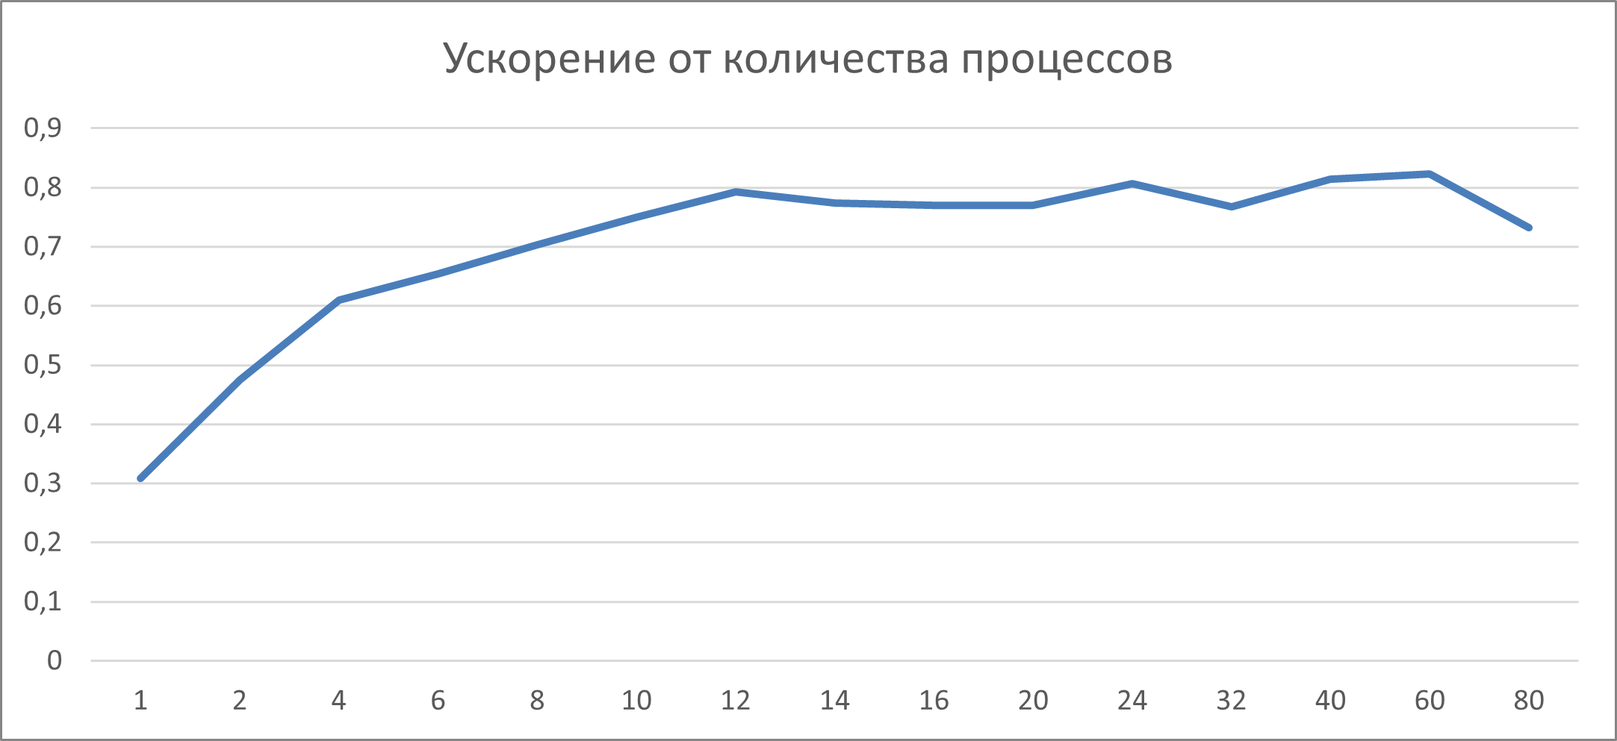
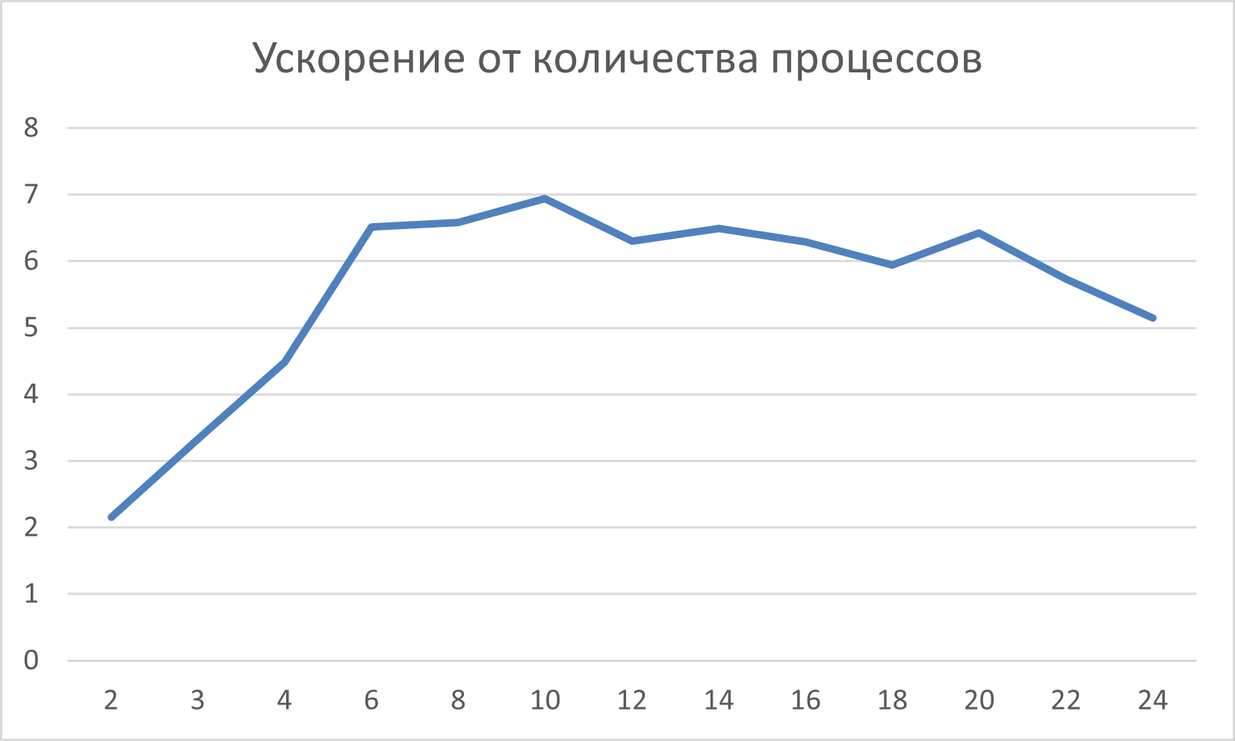
report

diff --git a/tasks/gutyansky_a_matrix_band_multiplication/report.md b/tasks/gutyansky_a_matrix_band_multiplication/report.md
@@ -1,126 +1,160 @@
-# Сумма значений по столбцам матрицы
+# Ленточная горизонтальная схема А, вертикальное В - умножение матрицы на матрицу
 
 - Студент: Гутянский Алексей Сергеевич, группа 3823Б1ФИ3
 - Технология: SEQ | MPI
-- Вариант: 12
+- Вариант: 14
 
 ## 1. Введение
 
-Суммирование элементов матрицы по столбцам относится к числу базовых операций, которые часто становятся частью более сложных вычислительных цепочек: статистической обработки данных, численных методов, разложения больших наборов измерений. Несмотря на простоту формулировки, практическая реализация такой операции для крупных матриц требует продуманной организации данных и эффективного распределения нагрузки между вычислительными узлами.
+Умножение матриц является одной из базовых операций линейной алгебры и широко используется в задачах численного моделирования, машинного обучения, компьютерной графики и обработки сигналов. При увеличении размеров матриц вычислительная сложность операции растёт кубически, что делает последовательную реализацию неэффективной для крупных входных данных.
 
-Работа посвящена разработке решения для суммирования матрицы по столбцам, а также анализу возможностей его параллельного исполнения. Рассматриваются ключевые аспекты реализации, потенциальные источники узких мест и факторы, влияющие на производительность при различных способах разбиения данных.
+В работе рассматривается реализация алгоритма умножения матриц с использованием ленточной схемы распределения данных и анализ возможностей его параллельного исполнения с применением технологии MPI.
 
 ## 2. Постановка задачи
 
-Дана прямоугольная матрица \(A\) размера \(n \times m\), содержащая целые числа. Для каждого столбца требуется вычислить сумму элементов в нём.
+Даны две матрицы:
+- матрица \(A\) размера \(n \times k\),
+- матрица \(B\) размера \(k \times m\),
+содержащие целые числа.
 
-**Входные данные:** два целых числа \(n\) и \(m\), задающих соответственно кол-во строк и столбцов матрицы, \(n \times m\) чисел задающих элементы матрицы. Гарантируется, что элементы матрицы и ответ помещаются в 32-битный знаковый тип.
+Требуется вычислить матрицу \(С = A \times B\) размера \(n \times m\).
 
-**Выходные данные:** \(m\) целых чисел - сумм по каждому из столбцов матрицы.
+**Входные данные:** размеры матриц \(n\), \(k\), \(m\), а также элементы матриц \(A\) и \(B\). Гарантируется, что элементы входных матриц и результирующей матрицы помещаются в 32-битный знаковый целочисленный тип.
+
+**Выходные данные:** Матрица \(С = A \times B\) размера \(n \times m\).
 
 ## 3. Базовый алгоритм (Последовательный)
 
-Будем рассматривать решение как массив длины \(m\). Изначально все его элементы инициализированы нулями.
+Последовательный алгоритм перемножения матриц реализован с использованием 3 вложенных друг в друга циклов:
 
 ```cpp
-std::fill(GetOutput().begin(), GetOutput().end(), 0);
 
-for (size_t i = 0; i < GetInput().rows; i++) {
-    for (size_t j = 0; j < GetInput().cols; j++) {
-        GetOutput()[j] += GetInput().data[(i * GetInput().cols) + j];
+for (size_t i = 0; i < C_rows; i++) {
+    for (size_t j = 0; j < C_cols; j++) {
+        for (size_t k = 0; k < A_cols; k++) {
+            C[(i * C_cols) + j] += A[(i * A_cols) + k] * B[(k * B_cols) + j];
+        }
     }
 }
 ```
 
-Для каждой строки матрицы от \(1\) до \(n\) столбцы обходятся в порядке от \(1\) до \(m\). Ответ накапливается в соответствующих ячейках массива.
-
-При описанной схеме обхода достигается почти последовательный доступ к памяти. При этом внутренний цикл по \(j\) может быть легко векторизован.
+Для каждой строки матрицы \(A\) и каждого столбца матрицы \(B\) вычисляется скалярное произведение. Реализация имеет последовательный доступ к памяти по строкам матрицы \(A\), однако доступ к элементам матрицы \(B\) происходит с константным шагом, что не очень хорошо с точки зрения кэширования.
 
 ## 4. Параллелизация
 
-Отдадим каждому процессу на обработку одну или более последовательных строк матрицы. Количество строк вычисляется по формуле:
+### 4.1. Схема разбиения данных
 
-```cpp
-size_t chunk_size = row_count / static_cast<size_t>(p_count);
-size_t remainder_size = row_count % static_cast<size_t>(p_count);
+В параллельной версии используется ленточная схема:
 
-size_t rows_count = chunk_size + (std::cmp_less(rank, remainder_size) ? 1 : 0);
-size_t elements_count = col_count * rows_count;
-```
+- матрица \(A\) разделяется по строкам между процессами;
+- матрица \(B\) разделяется между процессами по столбцам.
 
-В формуле _p_count_ обозначает число запущенных процессов, а _rank_ - ранг процесса.
+Каждому процессу в соответствии с его рангом передается непрерывный блок столбцов первой матрицы и непрерывный блок столбцов второй матрицы. Размеры блоков вычисляются так, чтобы разница в количестве строк (столбцов) между двумя процессами не превышала 1. Таким образом, нагрузка между процессами распределяется равномерно.
 
-Если \(n\) не делится на _proc_count_ нацело, то остаток распределяется между процессами. Разница в количестве обрабатываемых элементов не превышает количество столбцов матрицы.
+### 4.2. Обмен данными
 
-Полную копию данных имеет только процесс с нулевым рангом. Из него в другие процессы через _MPI_Bcast_ рассылаются сначала размеры матрицы, а потом через _MPI_Scatterv_ блоки для обработки.
+Входные данные полностью загружаются процессом, имеющим нулевой ранг, затем рассылаются в соответствии со схемой, описанной выше.
 
-Для вычисления частичного ответа используется код аналогичный последовательной версии за тем исключением, что суммирование выполняется не по всей матрице, а по ее части.
+Каждый процесс получает:
 
-Полное решение задачи вычисляется с использованием функции _MPI_Reduce_. Ответ становится доступен в памяти процесса с нулевым рангом.
+- размеры входных матриц;
+- блок строк матрицы \(A\);
+- блок столбцов матрицы \(B\).
+
+Для рассылки размеров используется _MPI_Bcast_. Для рассылки элементов матриц используется _MPI_Scatterv_.
+
+Перед рассылкой матрица \(B\) перепаковывается таким образом, чтобы блоки столбцов представляли собой непрерывные участки памяти.
+
+### 4.3. Вычисление и ротация блоков
+
+Результатом работы каждого процесса должен стать соответсвующий ему непрерывный блок строк матрицы \(C\). Имея блок строк матрицы \(A\) и блок столбцов матрицы \(B\) процесс не может вычислить результат целиком.
+
+Вычисление результата происходит поэтано. На каждом этапе:
+
+- Процесс использует свой блок столбцов матрицы \(B\) для вычисления части результата.
+- Процесс передает блок столбцов матрицы \(B\) следующему процессу (в порядке ранга).
+- Процесс принимает блок столбцов матрицы \(B\) от предыдущего процесс (также в порядке ранга).
+
+Блоки столбцов передаются циклически - процесс с рангом 0 получает данные от процесса с рангом \(world\_size - 1\).
+
+Ротация столбцов выполняется с использованием функции _MPI_Sendrecv_.
+
+### 4.4. Сбор данных
+
+Так как каждый процесс вычисляет непрерывный блок строк матрицы \(C\), полная матрица без применения дополнительных преобразований собирается на нулевом процессе с использованием функции _MPI_Gatherv_.
 
 ## 5. Детали реализации
 
-Для функциональных тестов реализована загрузка из файлов, хранящихся в директории data/. Матрица большого размера, сохраненная в текстовом файле, может занимать большой объем места на диске, но для функциональных тестов возможность использования больших матриц является избыточной.
+Для функциональных тестов используется загрузка входных данных из текстовых файлов, расположенных в директории data/. Для тестирования корректности применяются матрицы малого размера с различными значениями элементов.
 
-Для теста производительности используется квадратная матрица размера 16000 на 16000 элементов. Матрица состоит из единиц, что никак не влияет на скорость исполнения, но упрощает генерацию теста.
+Для измерения производительности используются две квадратные матрицы размера \(1000 \times 1000\). Матрицы сгенерированы следующим образом:
+\(a_{ij} = i\), \(b_{ij} = j\).
+Такое заполнение матриц позволяет проверять корректность вычисления без использования алгоритма перемножения матриц.
 
-Как уже отмечалось ранее, для параллельной версии загрузка тестовых данных и проверка ответа происходит только на процессе с нулевым рангом.
+Загрузка входных данных и проверка результата выполняются только процессом с нулевым рангом.
 
 ## 6. Тестовое окружение
 
 - Аппаратное обеспечение/Операционная система: Intel Core i5 14600KF, 6P+8E ядер, 64Gb Ddr5 5600Mhz, Windows 10, MS-MPI.
 - Инструменты сборки: Cmake 4.2.0-rc4, Visual Studio 2022, MSVC, x64 Release.
-- Переменные окружения: PPC_NUM_THREADS=PPC_NUM_PROC=1/2/4/6/8/10/12/14/16/20/24/32/40/60/80, PPC_PERF_MAX_TIME=10000.
-- Данные: вручную созданные тесты небольшого размера, случайным образом сгенерированный тест 1000x1000 элементов, матрица из единиц размера 16000x16000.
+- Переменные окружения: PPC_NUM_THREADS=PPC_NUM_PROC=1/2/3/4/6/8/10/12/14/16/18/20/22/24, PPC_PERF_MAX_TIME=10000.
+- Данные: вручную созданные функциональные тесты небольшого размера, автоматически генерируемые матрицы \(1000 \times 1000\) для тестов производительности.
 - Дополнительно: в scripts/run_tests.py были отключены perf тесты для всех технологий, кроме seq и mpi.
 
 ## 7. Результаты
 
 ### 7.1 Корректность
 
-Решение, как в последовательной, так и в параллельной версии было протестировано на входных данных разного размера и содержания. В числе тестов: матрица с одним столбцом и одной строкой, матрица, состоящая из нулей, неквадратная матрица и другие.
+Последовательная и параллельная версии программы были протестированы в различных ситуациях:
 
-Скорость исполнения проверена на матрице из единиц размера 16000х16000 элементов. Время исполнения стабильно и равно 110мс.
+- матрицы размером \(1 \times 1\);
+- неквадратные матрицы;
+- матрицы с нулевыми элементами;
+- одна из матриц единичная;
+- случайно сгенерированные данные (имитация реальных данных).
+
+Во всех случаях результаты работы алгоритмов полностью совпадали с ожидаемыми.
 
 ### 7.2 Производительность
 
-Время, ускорение, эффективность:
+Поскольку последовательная и MPI-версии, хотя и имеют схожую концепцию, реализованы по-разному и по-разному оптимизируются компилятором, MPI версия при запуске на одном процессе работает быстрее. Поэтому для оценки ускорения и эффективности в качестве базового времени используется запуск MPI-версии на одном процессе.
 
 | Режим        | Кол-во процессов | Время, сек | Ускорение | Эффективность параллелизма |
 |-------------|-------|---------|---------|------------|
-| seq         | 1     | 0.106  | 1.00    | N/A        |
-| mpi         | 2     | 0.230  | 0.48   | 24.7%      |
-| mpi         | 4     | 0.175  | 0.61   | 15.2%      |
-| mpi         | 6     | 0.162  | 0.65   | 10.9%      |
-| mpi         | 8     | 0.154  | 0.70   | 8.7%       |
-| mpi         | 10    | 0.144  | 0.75    | 7.4%       |
-| mpi         | 12    | 0.139  | 0.79    | 6.6%       |
-| mpi         | 14    | 0.141  | 0.77    | 5.5%       |
-| mpi         | 16    | 0.142  | 0.77    | 4.8%       |
-| mpi         | 20    | 0.139  | 0.77    | 3.8%       |
-| mpi         | 24    | 0.138  | 0.81    | 3.3%       |
-| mpi         | 32    | 0.139  | 0.77    | 2.3%       |
-| mpi         | 40    | 0.135  | 0.81    | 2.0%       |
-| mpi         | 60    | 0.139  | 0.82    | 1.3%       |
-| mpi         | 80    | 0.147  | 0.73    | 0.9%       |
+| seq         | 1     | 1.240  | N/A    | N/A        |
+| mpi         | 1     | 0.511  | 1   | N/A      |
+| mpi         | 2     | 0.236  | 2.15   | 107.9%      |
+| mpi         | 3     | 0.153  | 3.32   | 110.9%      |
+| mpi         | 4     | 0.113  | 4.48   | 112.1%      |
+| mpi         | 6     | 0.078  | 6.51   | 108.6%      |
+| mpi         | 8     | 0.076  | 6.58   | 82.2%      |
+| mpi         | 10     | 0.073  | 6.94   | 69.4%      |
+| mpi         | 12     | 0.081  | 6.29   | 52.5%      |
+| mpi         | 14     | 0.078  | 6.48   | 46.3%       |
+| mpi         | 16    | 0.081  | 6.28    | 39.3%       |
+| mpi         | 18    | 0.085  | 5.94    | 33.0%       |
+| mpi         | 20    | 0.079  | 6.42    | 32.1%       |
+| mpi         | 22    | 0.089  | 5.72    | 26.0%       |
+| mpi         | 24    | 0.099  | 5.14    | 21.4%       |
 
 ![Ускорение от количества процессов](./report_assets/pic1.png)
 ![Эффективность параллелизма](./report_assets/pic2.png)
 
-Первое, что стоит отметить, это замедление MPI версии относительно последовательной. Данных для обработки много, в то время как операций над ними мало. Большая часть времени тратится на пересылку данных между процессами.
+До 6 процессов наблюдается сверхлинейное ускорение, что может быть связано с улучшением локальности доступа к памяти: уменьшаются размеры обрабатываемых блоков, снижая число кэш-промахов.
 
-При отсутствии рассылки входных данных удавалось достичь ускорения относительно последовательной версии в 5.2 раза, что не являлось пределом, так как то решение не было оптимизировано и хранило полную копию входных данных на каждом из процессов.
+При дальнейшем увеличении числа процессов эффективность параллелизма снижается, поскольку объём вычислений на процесс становится сопоставим или меньше накладных расходов на обмен данными.
 
-Видно, что производительность растет до достижения 12 процессов, что равно количеству производительных ядер процессора с учетом Hyper-Threading. Ускорение в максимуме достигло 2.54 раз относительно запуска с одним MPI процессом.
-
-Далее до 20 процессов наблюдается плато. После 20 процессов размер работы, проделанной каждым процессом продолжает уменьшаться, но накладные расходы на пересылки растут медленнее, что позволяет выжать еще немного ускорения.
+Несмотря на это, максимальное ускорение достигается при использовании 10 процессов.
 
 ## 8. Заключение
 
-Была разработана программа, решающая задачу суммирования матрицы по столбцам и проанализированы возможности её параллелизации с использованием MPI. Были найдены и описаны узкие места и возможные причины их возникновения.
+В рамках работы была реализована программа умножения матриц с использованием ленточной схемы распределения данных и технологии MPI. Было показано, что корректная организация обменов позволяет каждому процессу вычислить независимый блок строк результирующей матрицы.
+
+Экспериментальные результаты демонстрируют, что эффективность параллелизации ограничивается коммуникационными затратами, особенно при большом числе процессов. Тем не менее, реализованный подход наглядно иллюстрирует принципы распределения данных и вычислений в задачах линейной алгебры.
 
 ## 9. Источники
 
 1. Microsoft MPI : документация [Электронный ресурс] // Microsoft Learn. – URL: https://learn.microsoft.com/ru-ru/message-passing-interface/microsoft-mpi (дата обращения: 18.11.2025).
 2. Курс лекций "Параллельная обработка данных" : Лаборатория Параллельных Информационных Технологий, НИВЦ МГУ [Электронный ресурс] // PARALLEL.RU. - URL: https://parallel.ru/vvv/mpi.html (дата обращения: 03.11.2025)
 3. Сысоев А. В. Курс лекций по параллельному программированию.
+4. Algorithms for parallel matrix multiplication [Электронный ресурс] // Southern Federal University. — URL: https://edu.mmcs.sfedu.ru/pluginfile.php/157505/mod_resource/content/1/MPIMatr2021-en.pdf (дата обращения: 24.12.2025)
